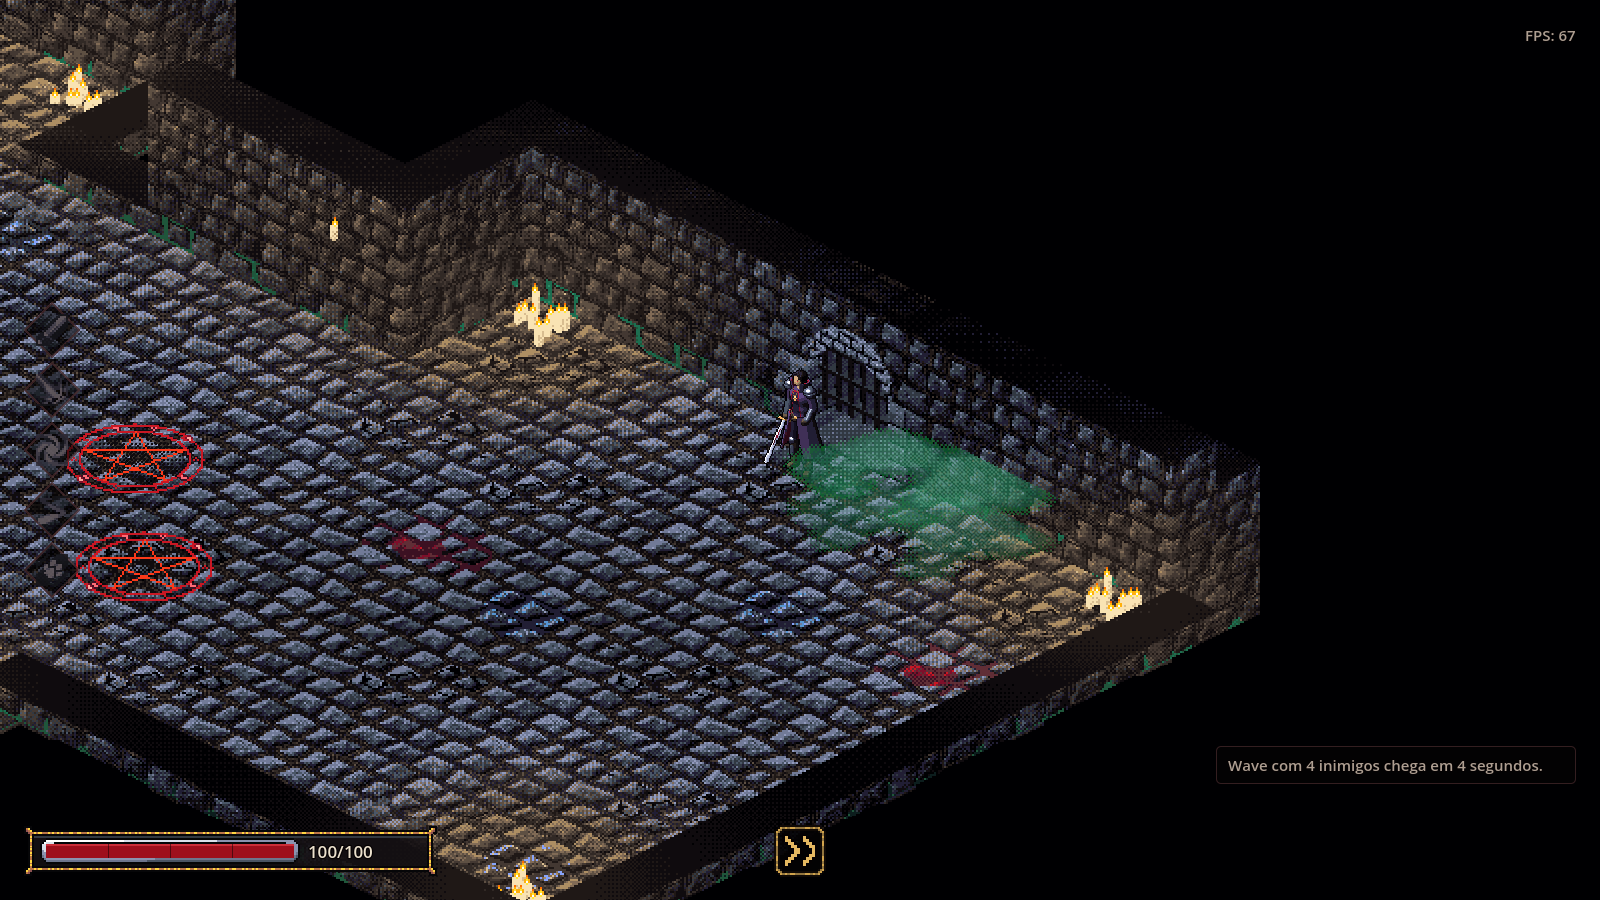
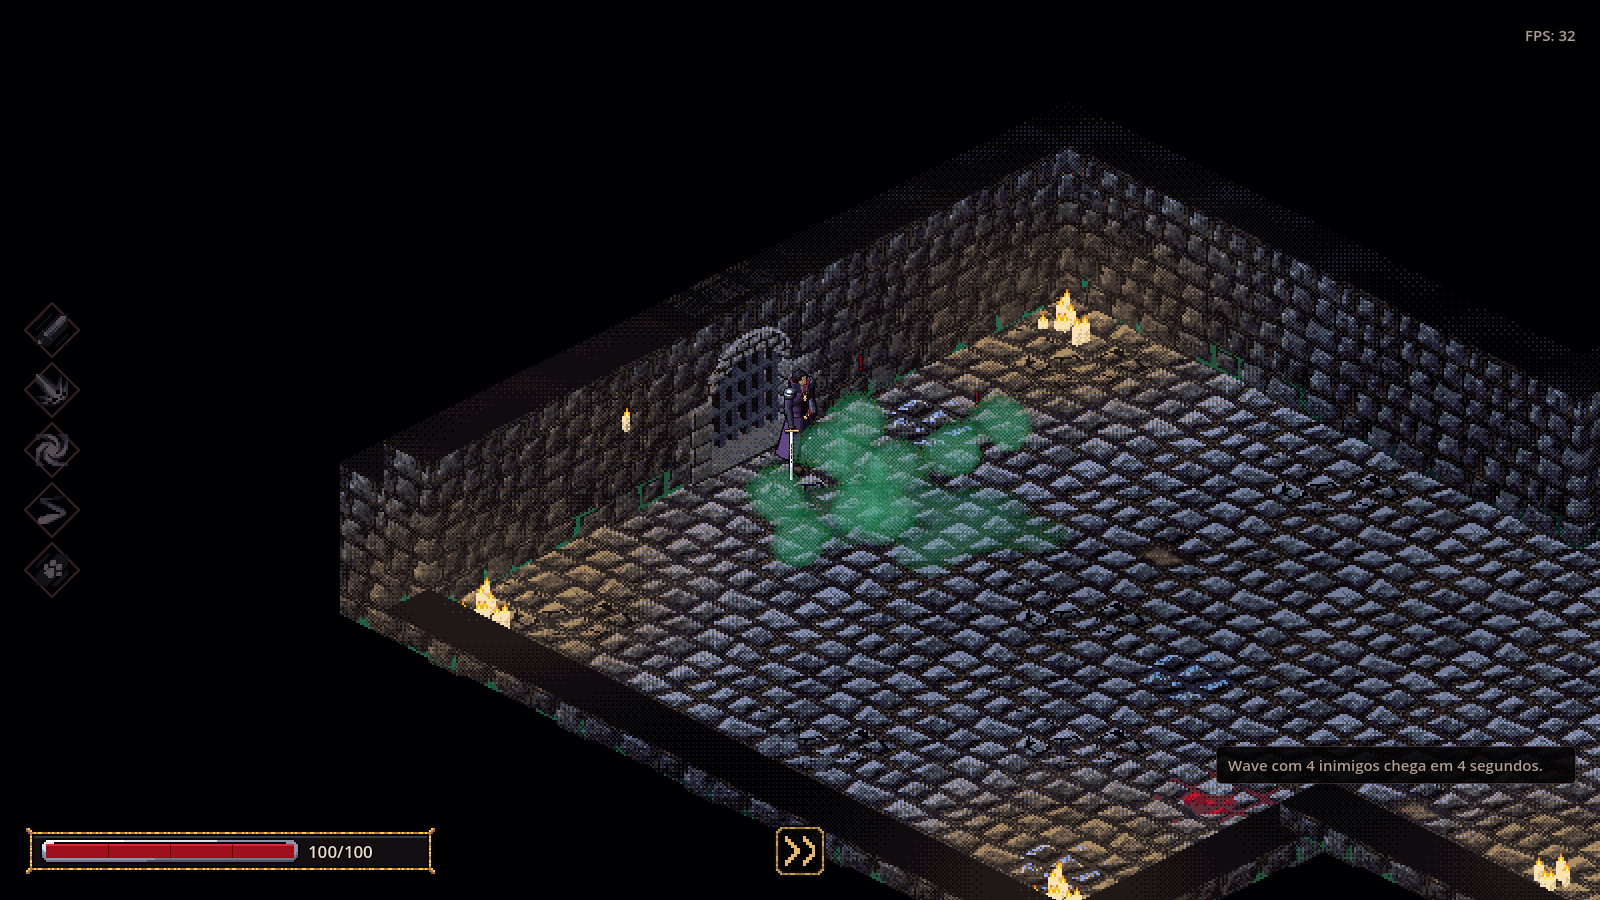
chore: capturas da névoa do Orlok v3

diff --git a/scripts/ui/HUD.Notifications.cs b/scripts/ui/HUD.Notifications.cs
@@ -324,7 +324,12 @@ public partial class HUD
 		if (GetTree().GetFirstNodeInGroup("player") is not Node3D player)
 			return;
 		var runtime = player.GetNodeOrNull<BloodBlessingRuntime>("BloodBlessingRuntime");
-		runtime?.SpawnPestilenceCloud(player.GlobalPosition + new Vector3(3.0f, 0.0f, 0.0f), 0.0f, 5.0f, 3.2f);
+		var center = player.GlobalPosition + new Vector3(3.0f, 0.0f, 0.0f);
+		// 3 inimigos dentro do raio da névoa, para conferir como ela os cobre.
+		if (GetTree().GetFirstNodeInGroup("room_generator") is RoomGenerator generator)
+			foreach (var offset in new[] { new Vector3(-1.0f, 0.0f, 0.6f), new Vector3(1.2f, 0.0f, 0.2f), new Vector3(0.1f, 0.0f, 1.4f) })
+				generator.DevSpawnEnemy(new Vector3(center.X + offset.X, 0.2f, center.Z + offset.Z), EnemyRarity.Normal, null);
+		runtime?.SpawnPestilenceCloud(center, 0.0f, 5.0f, 3.2f);
 	}
 
 	// Preview "toast" completo (§8.5): três recompensas em fila + "+N" ao lado das moedas.
